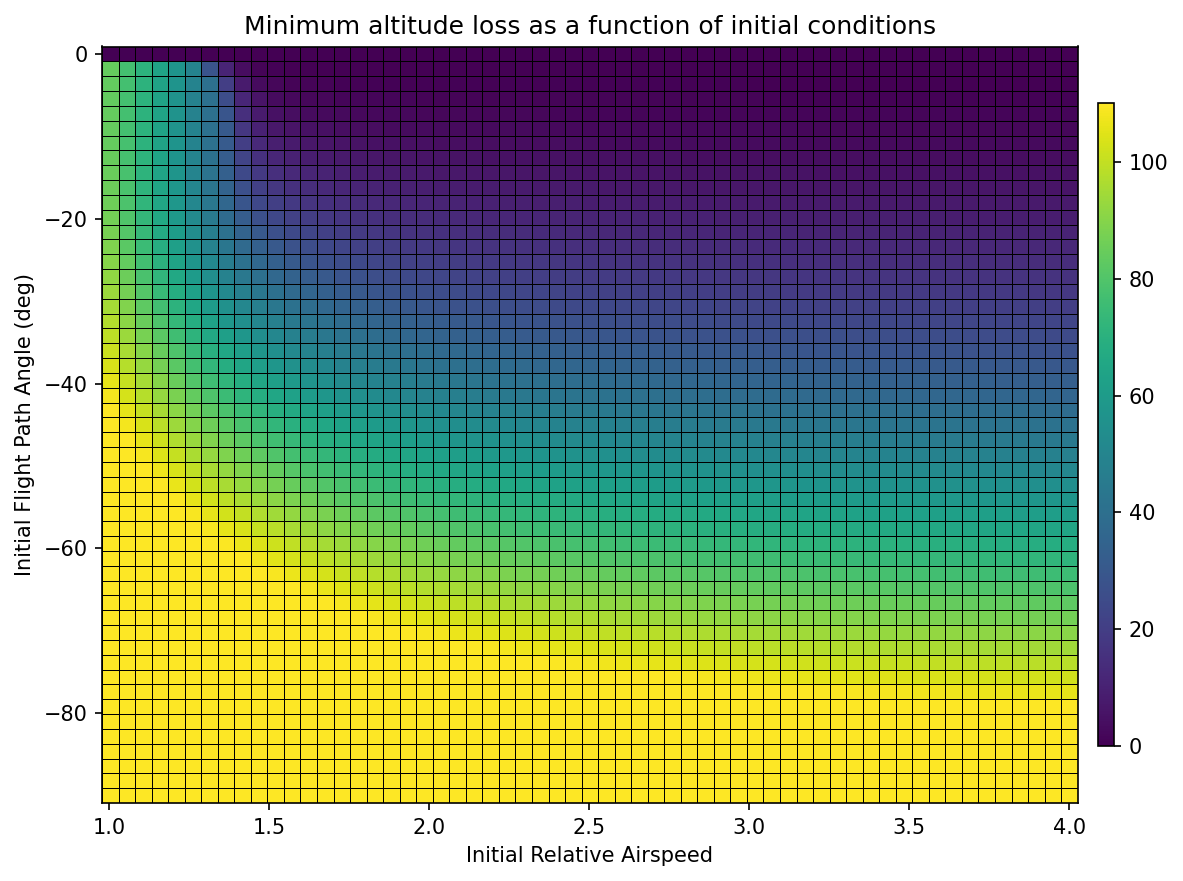
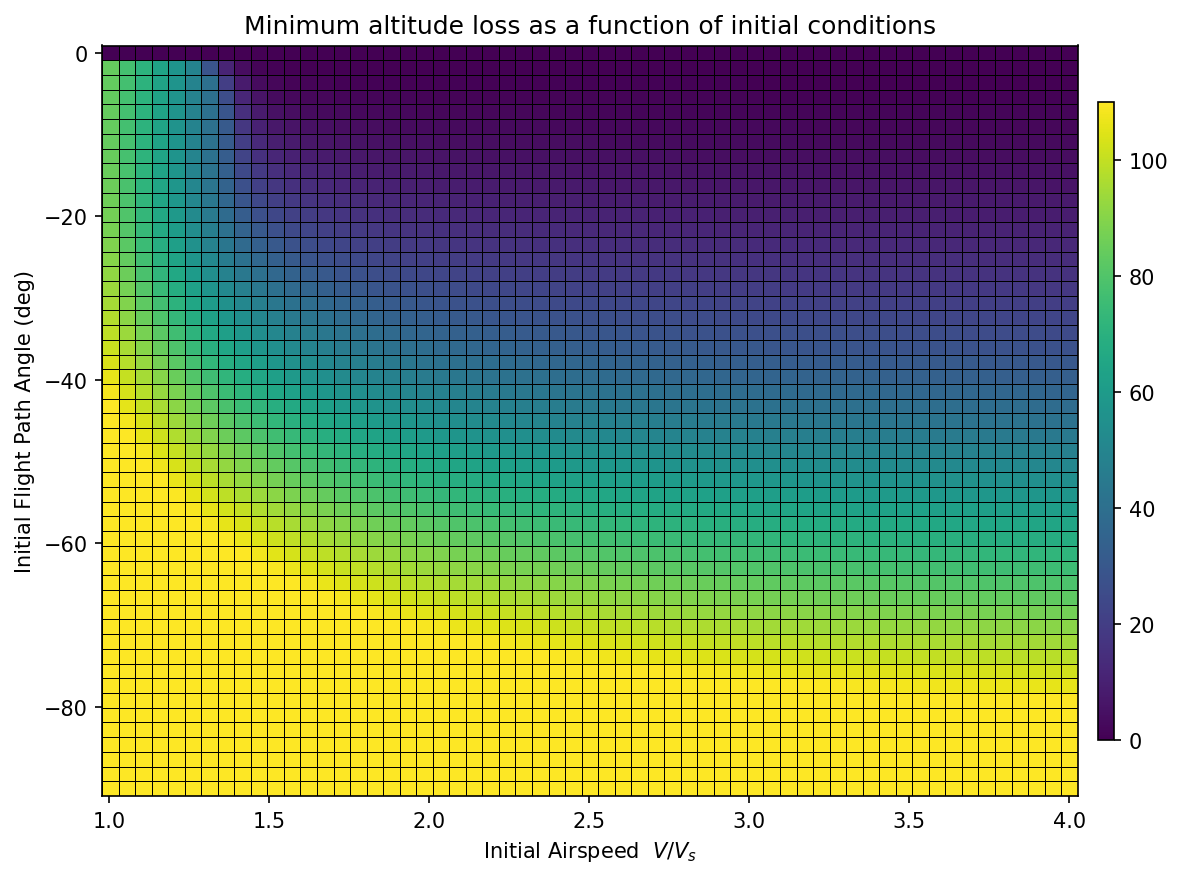
just for legilibility

diff --git a/main.py b/main.py
@@ -170,7 +170,7 @@ def plot_altitude_loss(pi: PolicyIteration, prefix: str) -> None:
     )
     fig.colorbar(pcm, ax=ax, fraction=0.025, pad=0.02, shrink=0.85, aspect=40)
 
-    ax.set_xlabel("Initial Relative Airspeed")
+    ax.set_xlabel(r"Initial Airspeed  $V/V_s$")
     ax.set_ylabel("Initial Flight Path Angle (deg)")
     ax.set_title("Minimum altitude loss as a function of initial conditions")
 
